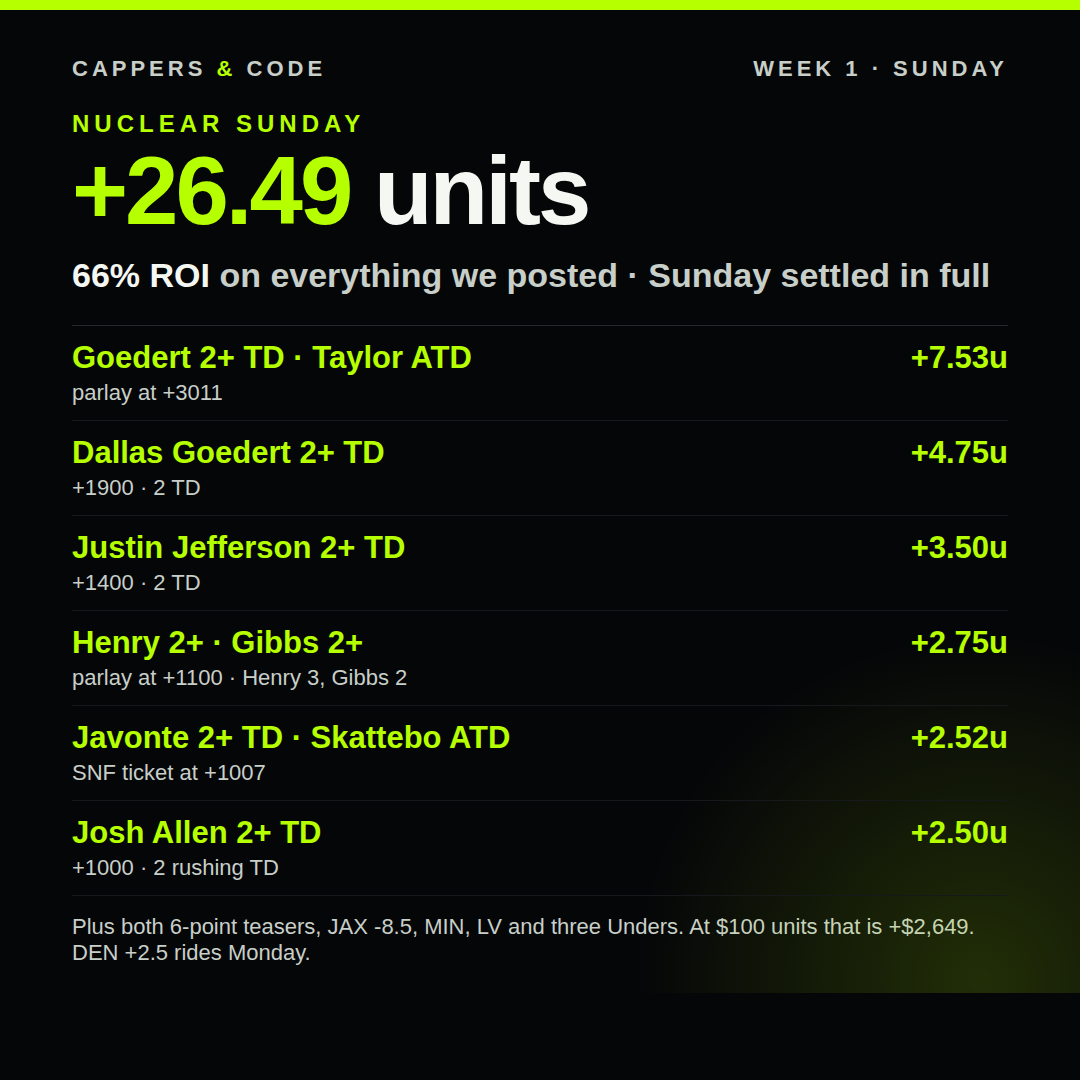
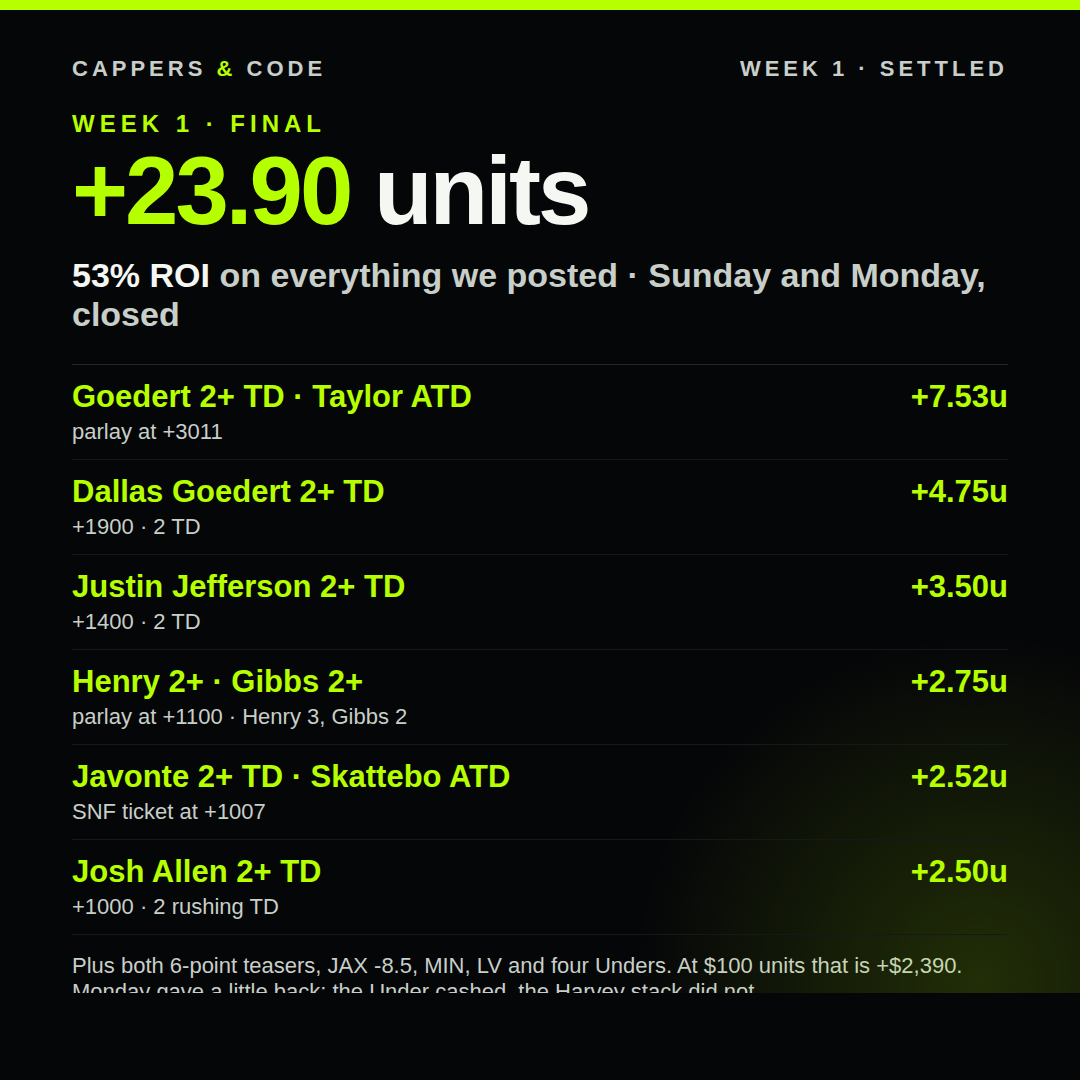
Week 1 closed: Monday night graded, +23.90u on the week
KC 31, DEN 10. Under 43.5 cashed on 41 points. RJ Harvey was held without a
score on seven touches, so every ticket built through him lost, including the
Harvey 2+ TD and both Dobbins hedges. Kenneth Walker went for two after we
passed on his 2+ at +550, which the card says plainly. The two Sunday tickets
riding on Denver, +2.5 and the alt teaser, both lost.

Week 1 final: 39-66, 44.70u risked, +23.90u, 53% ROI. Flat 1u on all 105
plays: +79.69u. Results card and both social cards carry the settled numbers,
and the ledger test confirms the card matches the ledger.

Claude-Session: https://claude.ai/code/session_01QLorhy8pwXBVsprT2JzAqk

diff --git a/site/sheets/w01-results-social.html b/site/sheets/w01-results-social.html
@@ -38,11 +38,11 @@
 
 <section class="card" id="square">
   <div>
-    <div class="brand"><span>CAPPERS <b>&amp;</b> CODE</span><span>WEEK 1 · SUNDAY</span></div>
+    <div class="brand"><span>CAPPERS <b>&amp;</b> CODE</span><span>WEEK 1 · SETTLED</span></div>
     <div class="hero">
-      <div class="kicker">NUCLEAR SUNDAY</div>
-      <h1><span>+26.49</span> units</h1>
-      <div class="roi"><b>66% ROI</b> on everything we posted · Sunday settled in full</div>
+      <div class="kicker">WEEK 1 · FINAL</div>
+      <h1><span>+23.90</span> units</h1>
+      <div class="roi"><b>53% ROI</b> on everything we posted · Sunday and Monday, closed</div>
     </div>
     <div class="list">
       <div class="row"><div class="l"><b>Goedert 2+ TD · Taylor ATD</b><small>parlay at +3011</small></div><div class="u">+7.53u</div></div>
@@ -52,18 +52,18 @@
       <div class="row"><div class="l"><b>Javonte 2+ TD · Skattebo ATD</b><small>SNF ticket at +1007</small></div><div class="u">+2.52u</div></div>
       <div class="row"><div class="l"><b>Josh Allen 2+ TD</b><small>+1000 · 2 rushing TD</small></div><div class="u">+2.50u</div></div>
     </div>
-    <div class="small">Plus both 6-point teasers, JAX -8.5, MIN, LV and three Unders. At $100 units that is +$2,649. DEN +2.5 rides Monday.</div>
+    <div class="small">Plus both 6-point teasers, JAX -8.5, MIN, LV and four Unders. At $100 units that is +$2,390. Monday gave a little back: the Under cashed, the Harvey stack did not.</div>
   </div>
   <div class="foot"><span>UNITS, NOT DOLLARS</span><span>LOCKED IN. TRUST THE CODE.</span></div>
 </section>
 
 <section class="card" id="story">
   <div>
-    <div class="brand"><span>CAPPERS <b>&amp;</b> CODE</span><span>WEEK 1 · SUNDAY</span></div>
+    <div class="brand"><span>CAPPERS <b>&amp;</b> CODE</span><span>WEEK 1 · SETTLED</span></div>
     <div class="hero">
-      <div class="kicker">NUCLEAR SUNDAY</div>
-      <h1><span>+26.49</span><br/>units</h1>
-      <div class="roi"><b>66% ROI</b> on everything we posted.<br/>38-54 across 92 graded tickets.</div>
+      <div class="kicker">WEEK 1 · FINAL</div>
+      <h1><span>+23.90</span><br/>units</h1>
+      <div class="roi"><b>53% ROI</b> on everything we posted.<br/>39-66 across 105 graded tickets.</div>
     </div>
     <div class="list">
       <div class="row"><div class="l"><b>Goedert 2+ TD · Taylor ATD</b><small>parlay at +3011</small></div><div class="u">+7.53u</div></div>
@@ -75,7 +75,7 @@
       <div class="row"><div class="l"><b>Both 6-point teasers</b><small>JAX / HOU and PHI / LV</small></div><div class="u">+0.83u</div></div>
       <div class="row"><div class="l"><b>Sides and totals</b><small>JAX -8.5 · MIN · LV · Under ATL@PIT · Under ARI@LAC · Under MIA@LV</small></div><div class="u">6-4</div></div>
     </div>
-    <div class="small">Set your own unit size on the results page: $3, $10, $25 or $100. Every ticket, graded, in the app.</div>
+    <div class="small">Monday night: Under 43.5 cashed, Harvey was held scoreless and the stack went with him. Every ticket, graded, in the app.</div>
   </div>
   <div class="foot"><span>UNITS, NOT DOLLARS</span><span>LOCKED IN. TRUST THE CODE.</span></div>
 </section>

diff --git a/site/sheets/w01-results.html b/site/sheets/w01-results.html
@@ -35,17 +35,17 @@
 
 <section class="card" id="results">
   <div class="brand"><span>CAPPERS <b>&amp;</b> CODE</span><span>WEEK 1 · SUNDAY · RESULTS</span></div>
-  <h1>Nuclear Sunday. <span>+26.49 units.</span></h1>
-  <p class="sub">Every ticket we posted Sunday, graded against the final box scores. All of Sunday settled including SNF and the live card; two tickets ride on Monday night.</p>
+  <h1>Week 1 settled. <span>+23.90 units.</span></h1>
+  <p class="sub">Every ticket we posted, Sunday and Monday night, graded against the final box scores. Week 1 is closed.</p>
 
   <div class="stats">
-    <div class="stat"><div class="l">NET UNITS</div><div class="v">+26.49</div></div>
-    <div class="stat"><div class="l">ROI</div><div class="v">66%</div></div>
-    <div class="stat"><div class="l">RECORD</div><div class="v">38-54</div></div>
-    <div class="stat"><div class="l">LIVE</div><div class="v">13</div></div>
+    <div class="stat"><div class="l">NET UNITS</div><div class="v">+23.90</div></div>
+    <div class="stat"><div class="l">ROI</div><div class="v">53%</div></div>
+    <div class="stat"><div class="l">RECORD</div><div class="v">39-66</div></div>
+    <div class="stat"><div class="l">LIVE</div><div class="v">0</div></div>
   </div>
 
-  <div class="money"><b>What that is in money.</b> 40.20 units risked at the stakes printed on each sheet. $3 units: <b>+$79</b>. $10 units: <b>+$265</b>. $25 units: <b>+$662</b>. $100 units: <b>+$2,649</b>. Flat 1u on all 92 plays instead: <b>+90.78u, 99% ROI</b>. Set your own unit size on the results page in the app.</div>
+  <div class="money"><b>What that is in money.</b> 44.70 units risked at the stakes printed on each sheet. $3 units: <b>+$72</b>. $10 units: <b>+$239</b>. $25 units: <b>+$597</b>. $100 units: <b>+$2,390</b>. Flat 1u on all 105 plays instead: <b>+79.69u, 76% ROI</b>. Set your own unit size on the results page in the app.</div>
 
   <div class="box"><h2>THE CASHES</h2>
     <ul class="bets">
@@ -70,9 +70,10 @@
     </ul>
   </div>
 
-  <div class="box"><h2>STILL LIVE</h2>
+  <div class="box"><h2>MONDAY NIGHT</h2>
     <ul class="bets">
-      <li><b>MNF:</b> DEN +2.5 · alt teaser JAX -2.5 / DEN +8.5 (JAX leg in) · plus the Monday night card: Harvey 2+ TD +3000, Rice 2+ TD +1400, three anytime parlays, Under 43.5, Broncos ML</li>
+      <li><b>Under 43.5</b> cashed on 41 points <span class="u">+0.91u</span></li>
+      <li>RJ Harvey was held without a score on seven touches, and every ticket built through him died with it. Kenneth Walker went for two, including a 60-yard run, after we passed on his 2+ at +550. Monday night cost 1.09u; the two Sunday tickets riding on Denver cost 1.5u more.</li>
     </ul>
   </div>
   <div class="foot"><span>UNITS, NOT DOLLARS</span><span>LOCKED IN. TRUST THE CODE.</span></div>
